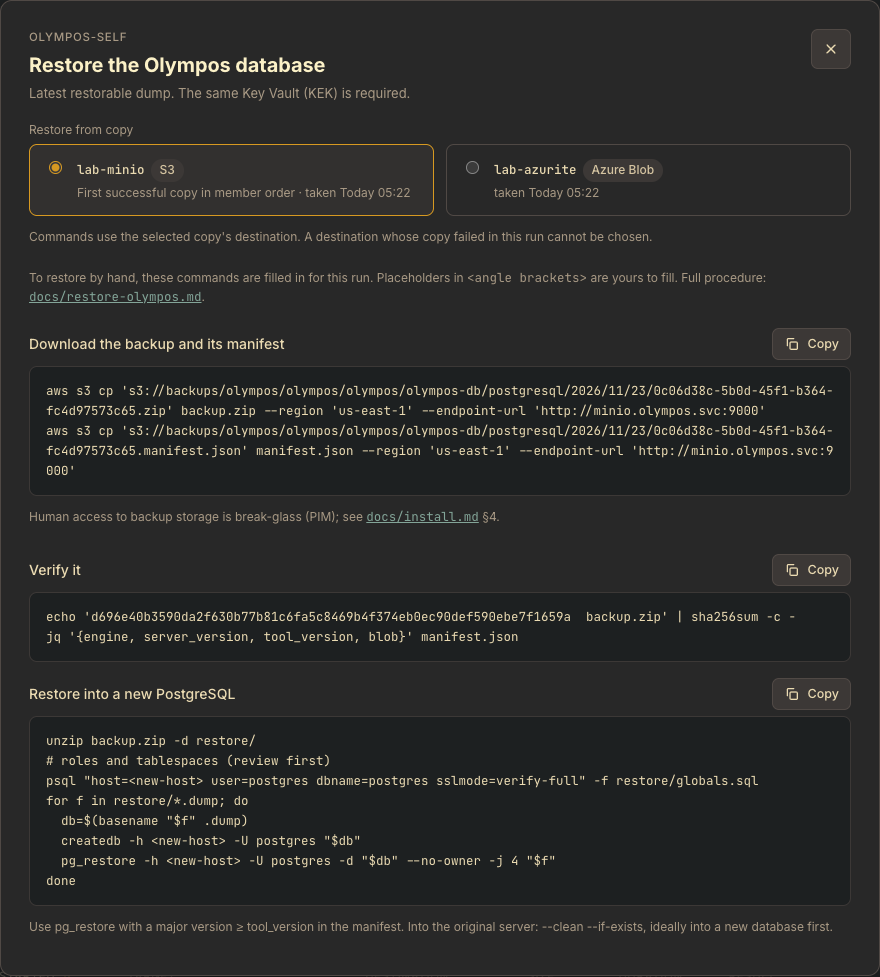
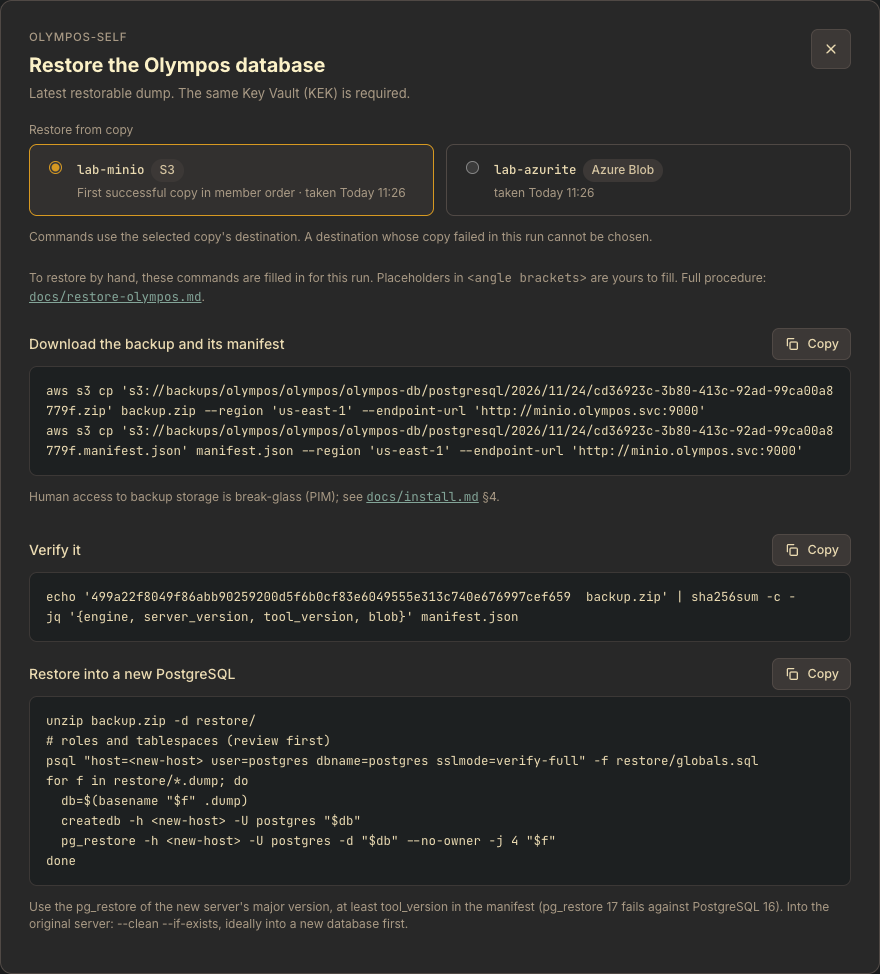
fix(docs): restore the Olympos database with the server's pg_restore (#53)

diff --git a/internal/backup/restore_guide.go b/internal/backup/restore_guide.go
@@ -330,7 +330,7 @@ func buildRestoreGuide(in guideInput) *RestoreGuide {
 			b.WriteString("for f in restore/*.dump; do\n  db=$(basename \"$f\" .dump)\n  createdb -h <new-host> -U postgres \"$db\"\n  pg_restore -h <new-host> -U postgres -d \"$db\" --no-owner -j 4 \"$f\"\ndone\n")
 		}
 		g.Steps = append(g.Steps, RestoreStep{Title: "Restore into a new PostgreSQL", Commands: strings.TrimRight(b.String(), "\n"),
-			Note: "Use pg_restore with a major version ≥ tool_version in the manifest. Into the original server: --clean --if-exists, ideally into a new database first."})
+			Note: "Use the pg_restore of the new server's major version, at least tool_version in the manifest (pg_restore 17 fails against PostgreSQL 16). Into the original server: --clean --if-exists, ideally into a new database first."})
 	}
 	return g
 }

diff --git a/internal/backup/engines/postgres/postgres.go b/internal/backup/engines/postgres/postgres.go
@@ -411,7 +411,7 @@ func (e *Engine) Run(ctx context.Context, ec backup.EngineContext, w io.Writer) 
 	res.Details["globals"] = globalsMode
 	res.Details["schema_only"] = ec.Test
 	res.Details["pg_dump_major"] = tool.Major
-	res.Details["restore"] = "unzip; psql -f globals.sql postgres; for each <db>.dump: pg_restore --create -d postgres <db>.dump (pg_restore >= " +
+	res.Details["restore"] = "unzip; psql -f globals.sql postgres; for each <db>.dump: pg_restore --create -d postgres <db>.dump (the new server's pg_restore, major >= " +
 		strconv.Itoa(tool.Major) + ")"
 	return res, nil
 }

diff --git a/docs/restore-olympos.md b/docs/restore-olympos.md
@@ -46,15 +46,19 @@ If the latest run was *Partial*, its successful copies are still a complete dump
 
 ## 2. Restore into an empty database
 
-Use `pg_restore` with a major version ≥ `tool_version` in the manifest.
+Use the `pg_restore` of the PostgreSQL you restore into, whose major version must be at least `tool_version`
+in the manifest. A newer `pg_restore` can fail against an older server: `pg_restore` 17 into PostgreSQL 16
+stops at once with `unrecognized configuration parameter "transaction_timeout"`.
 
-**systemd host** (local PostgreSQL, Unix socket, peer auth):
+**systemd host** (local PostgreSQL, Unix socket, peer auth). The install guide adds the `postgresql-client-17`
+or `postgresql17` package for backups, so give the PostgreSQL 16 `pg_restore` by its path:
 
 ```bash
 sudo systemctl stop olympos-server
 sudo -u postgres createuser olympos 2>/dev/null || true
 sudo -u postgres createdb -O olympos olympos_restored
-sudo -u olympos pg_restore -d "host=/var/run/postgresql dbname=olympos_restored" --no-owner --exit-on-error olympos.dump
+PG_RESTORE=/usr/lib/postgresql/16/bin/pg_restore   # Ubuntu / Debian; Rocky / Alma: /usr/pgsql-16/bin/pg_restore
+sudo -u olympos "$PG_RESTORE" -d "host=/var/run/postgresql dbname=olympos_restored" --no-owner --exit-on-error olympos.dump
 ```
 
 **Helm (bundled PostgreSQL)**:
@@ -66,8 +70,8 @@ kubectl -n olympos exec -i statefulset/olympos-postgresql -- \
   pg_restore -U olympos -d olympos_restored --no-owner --exit-on-error < olympos.dump
 ```
 
-**External PostgreSQL**: create an empty database owned by the Olympos role and run the same
-`pg_restore` against it.
+**External PostgreSQL**: create an empty database owned by the Olympos role and run the `pg_restore` of
+that server's major version against it.
 
 ## 3. Point the server at it
 

diff --git a/CHANGELOG.md b/CHANGELOG.md
@@ -6,6 +6,14 @@ All notable changes to this project are documented here. The format follows
 
 ## [Unreleased]
 
+### Fixed
+- Restoring the Olympos database by hand on Rocky / Alma failed at once with `unrecognized configuration
+  parameter "transaction_timeout"`: `docs/restore-olympos.md` ran the `pg_restore` on `PATH`, which is 17 there,
+  against PostgreSQL 16. The guide now names the PostgreSQL 16 `pg_restore` by its path, and the rule in
+  `docs/restore.md`, the *Restore commands* note and a run's restore hint now say to use the new server's
+  `pg_restore` (at least the dump's `tool_version`), not any newer one.
+- A probe that the gateway refused or revoked before its hello went out logged `EOF` instead of the reason.
+
 ## [0.3.0] - 2026-11-24
 
 Synthetic monitoring: scenarios defined once in Olympos run from a probe inside every cluster they target.

diff --git a/docs/restore.md b/docs/restore.md
@@ -295,7 +295,9 @@ from the mounted export for NFS. The run's details fill them in for the copy you
 | `<db>.dump` | `pg_dump -Fc` of one database (custom format, restore with `pg_restore`) |
 
 The manifest records the server version and the pg_dump version used (`server_version`, `tool_version`).
-Use `pg_restore` with a major version ≥ the dump's.
+Use the `pg_restore` of the new server's major version, which must be the dump's (`tool_version`) or newer.
+A newer `pg_restore` can fail against an older server: `pg_restore` 17 into PostgreSQL 16 stops with
+`unrecognized configuration parameter "transaction_timeout"`.
 
 ### Restore
 
